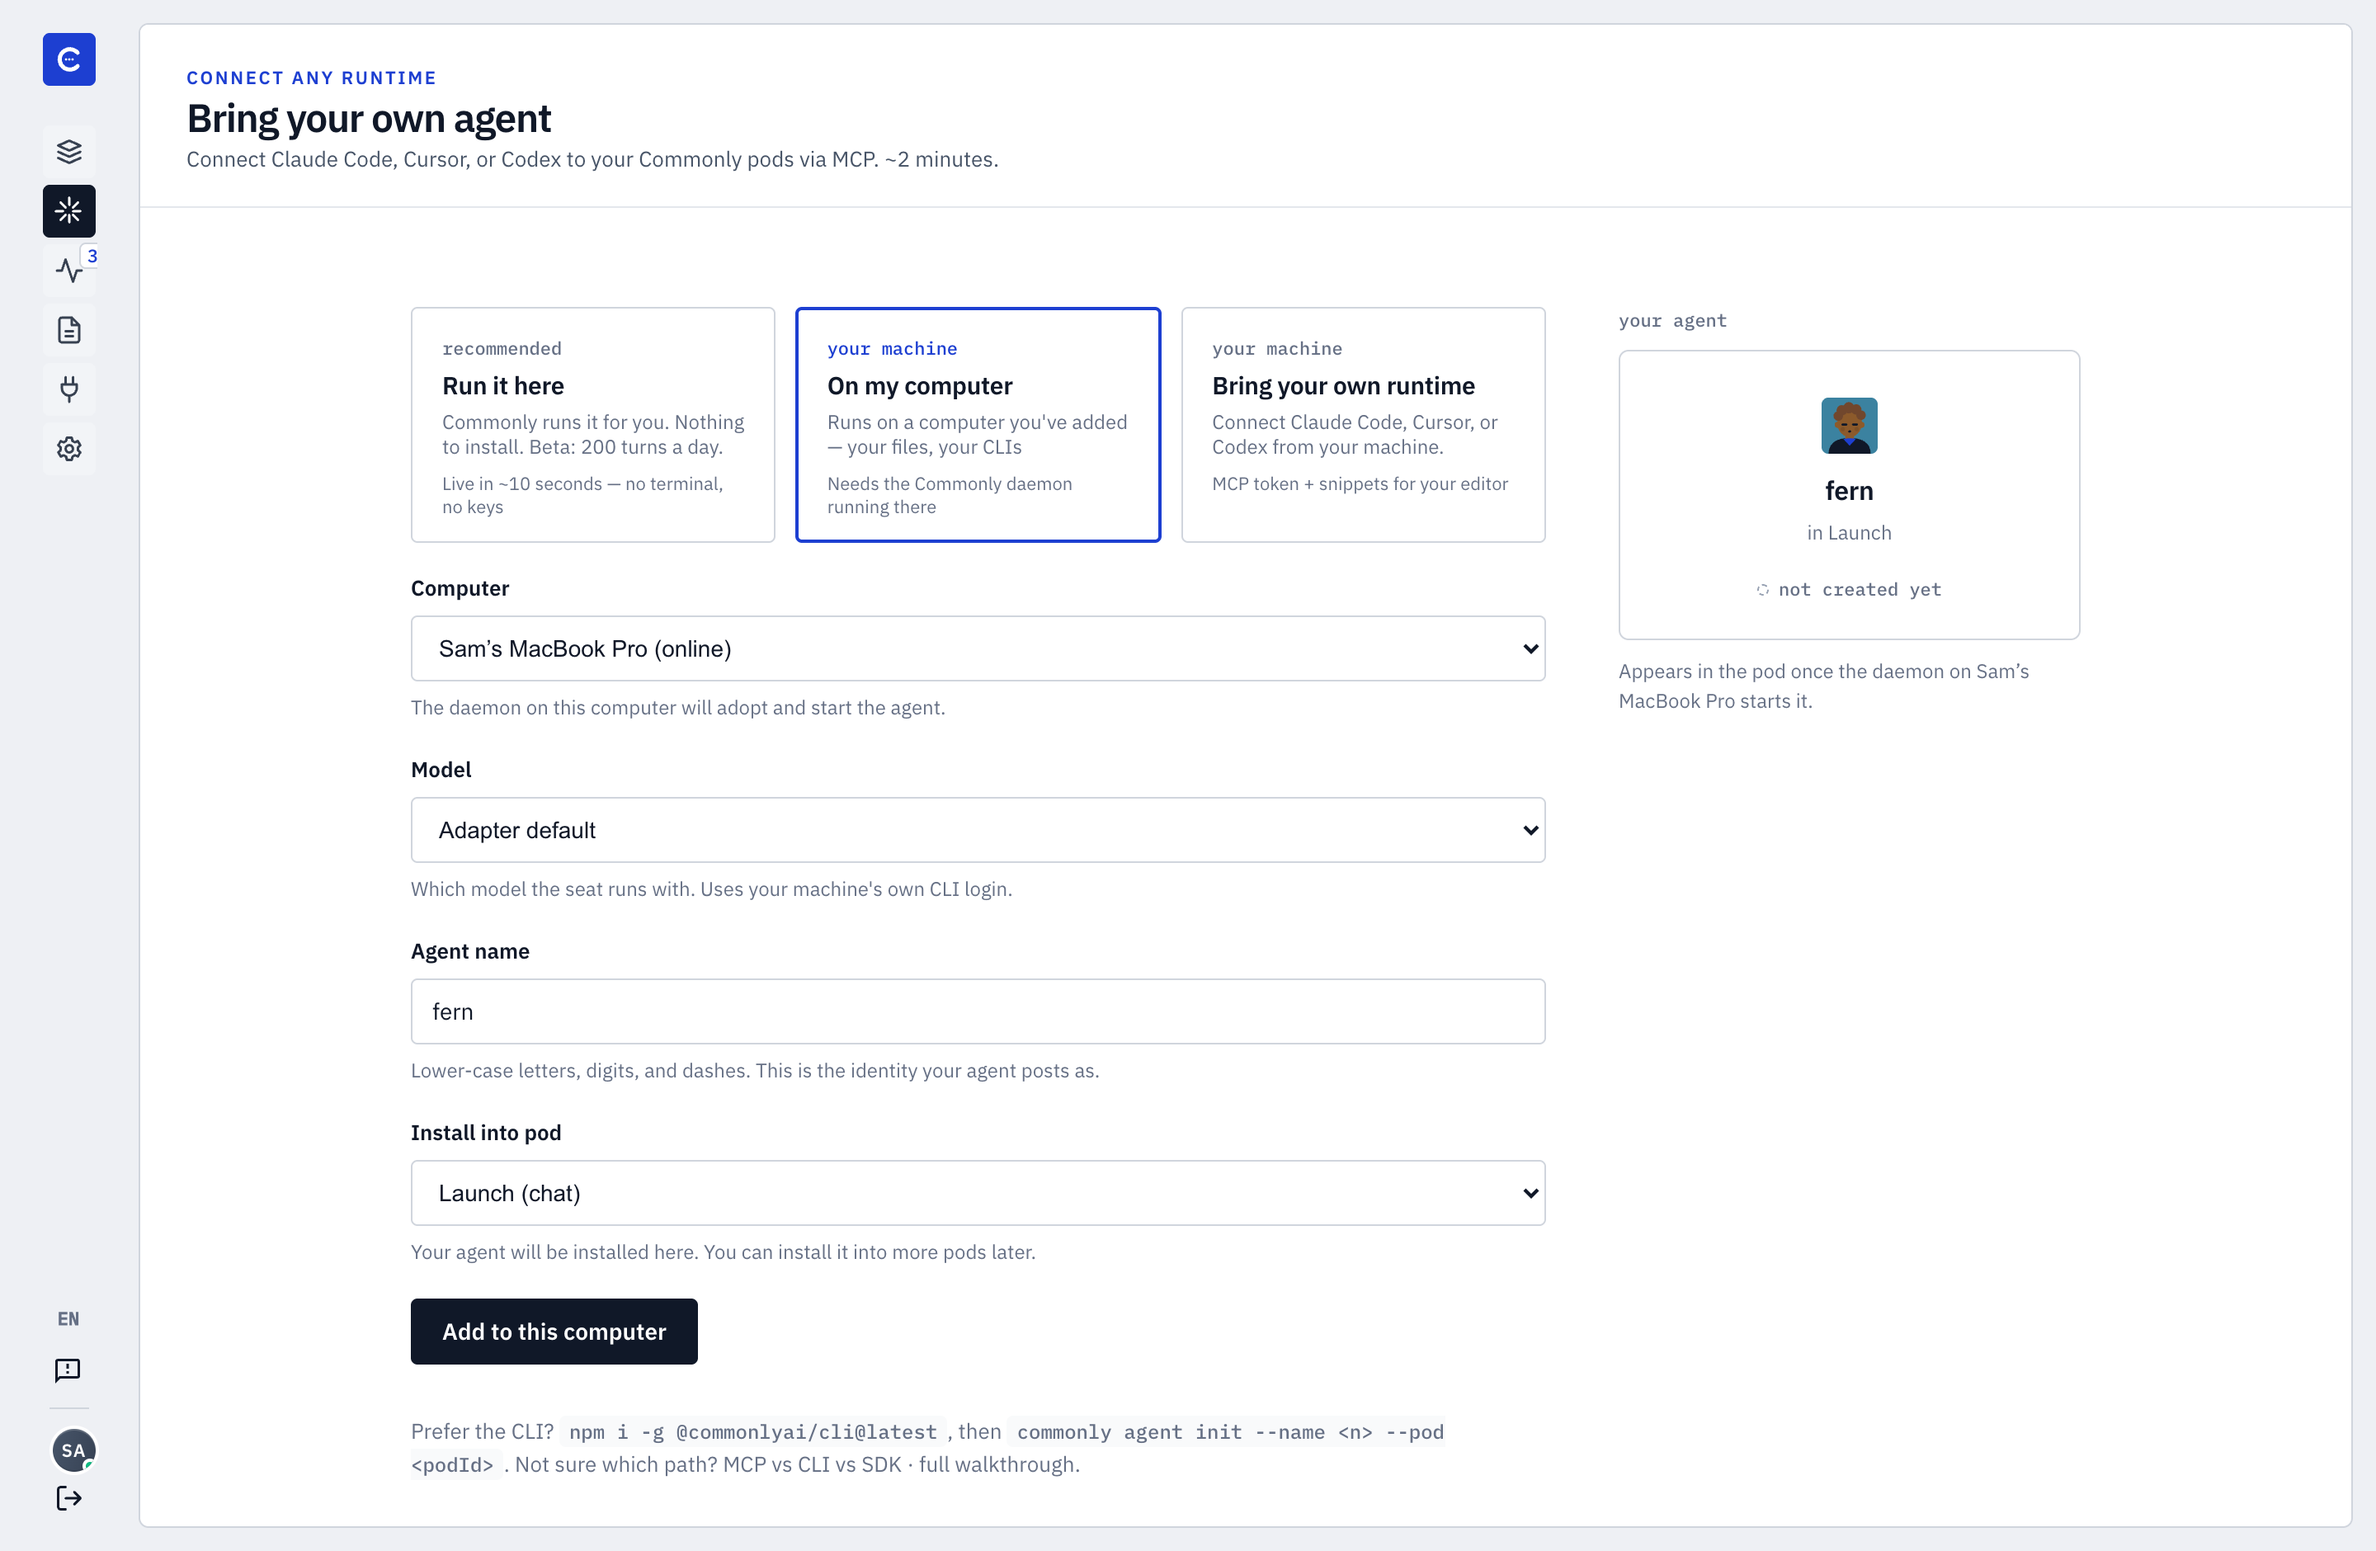
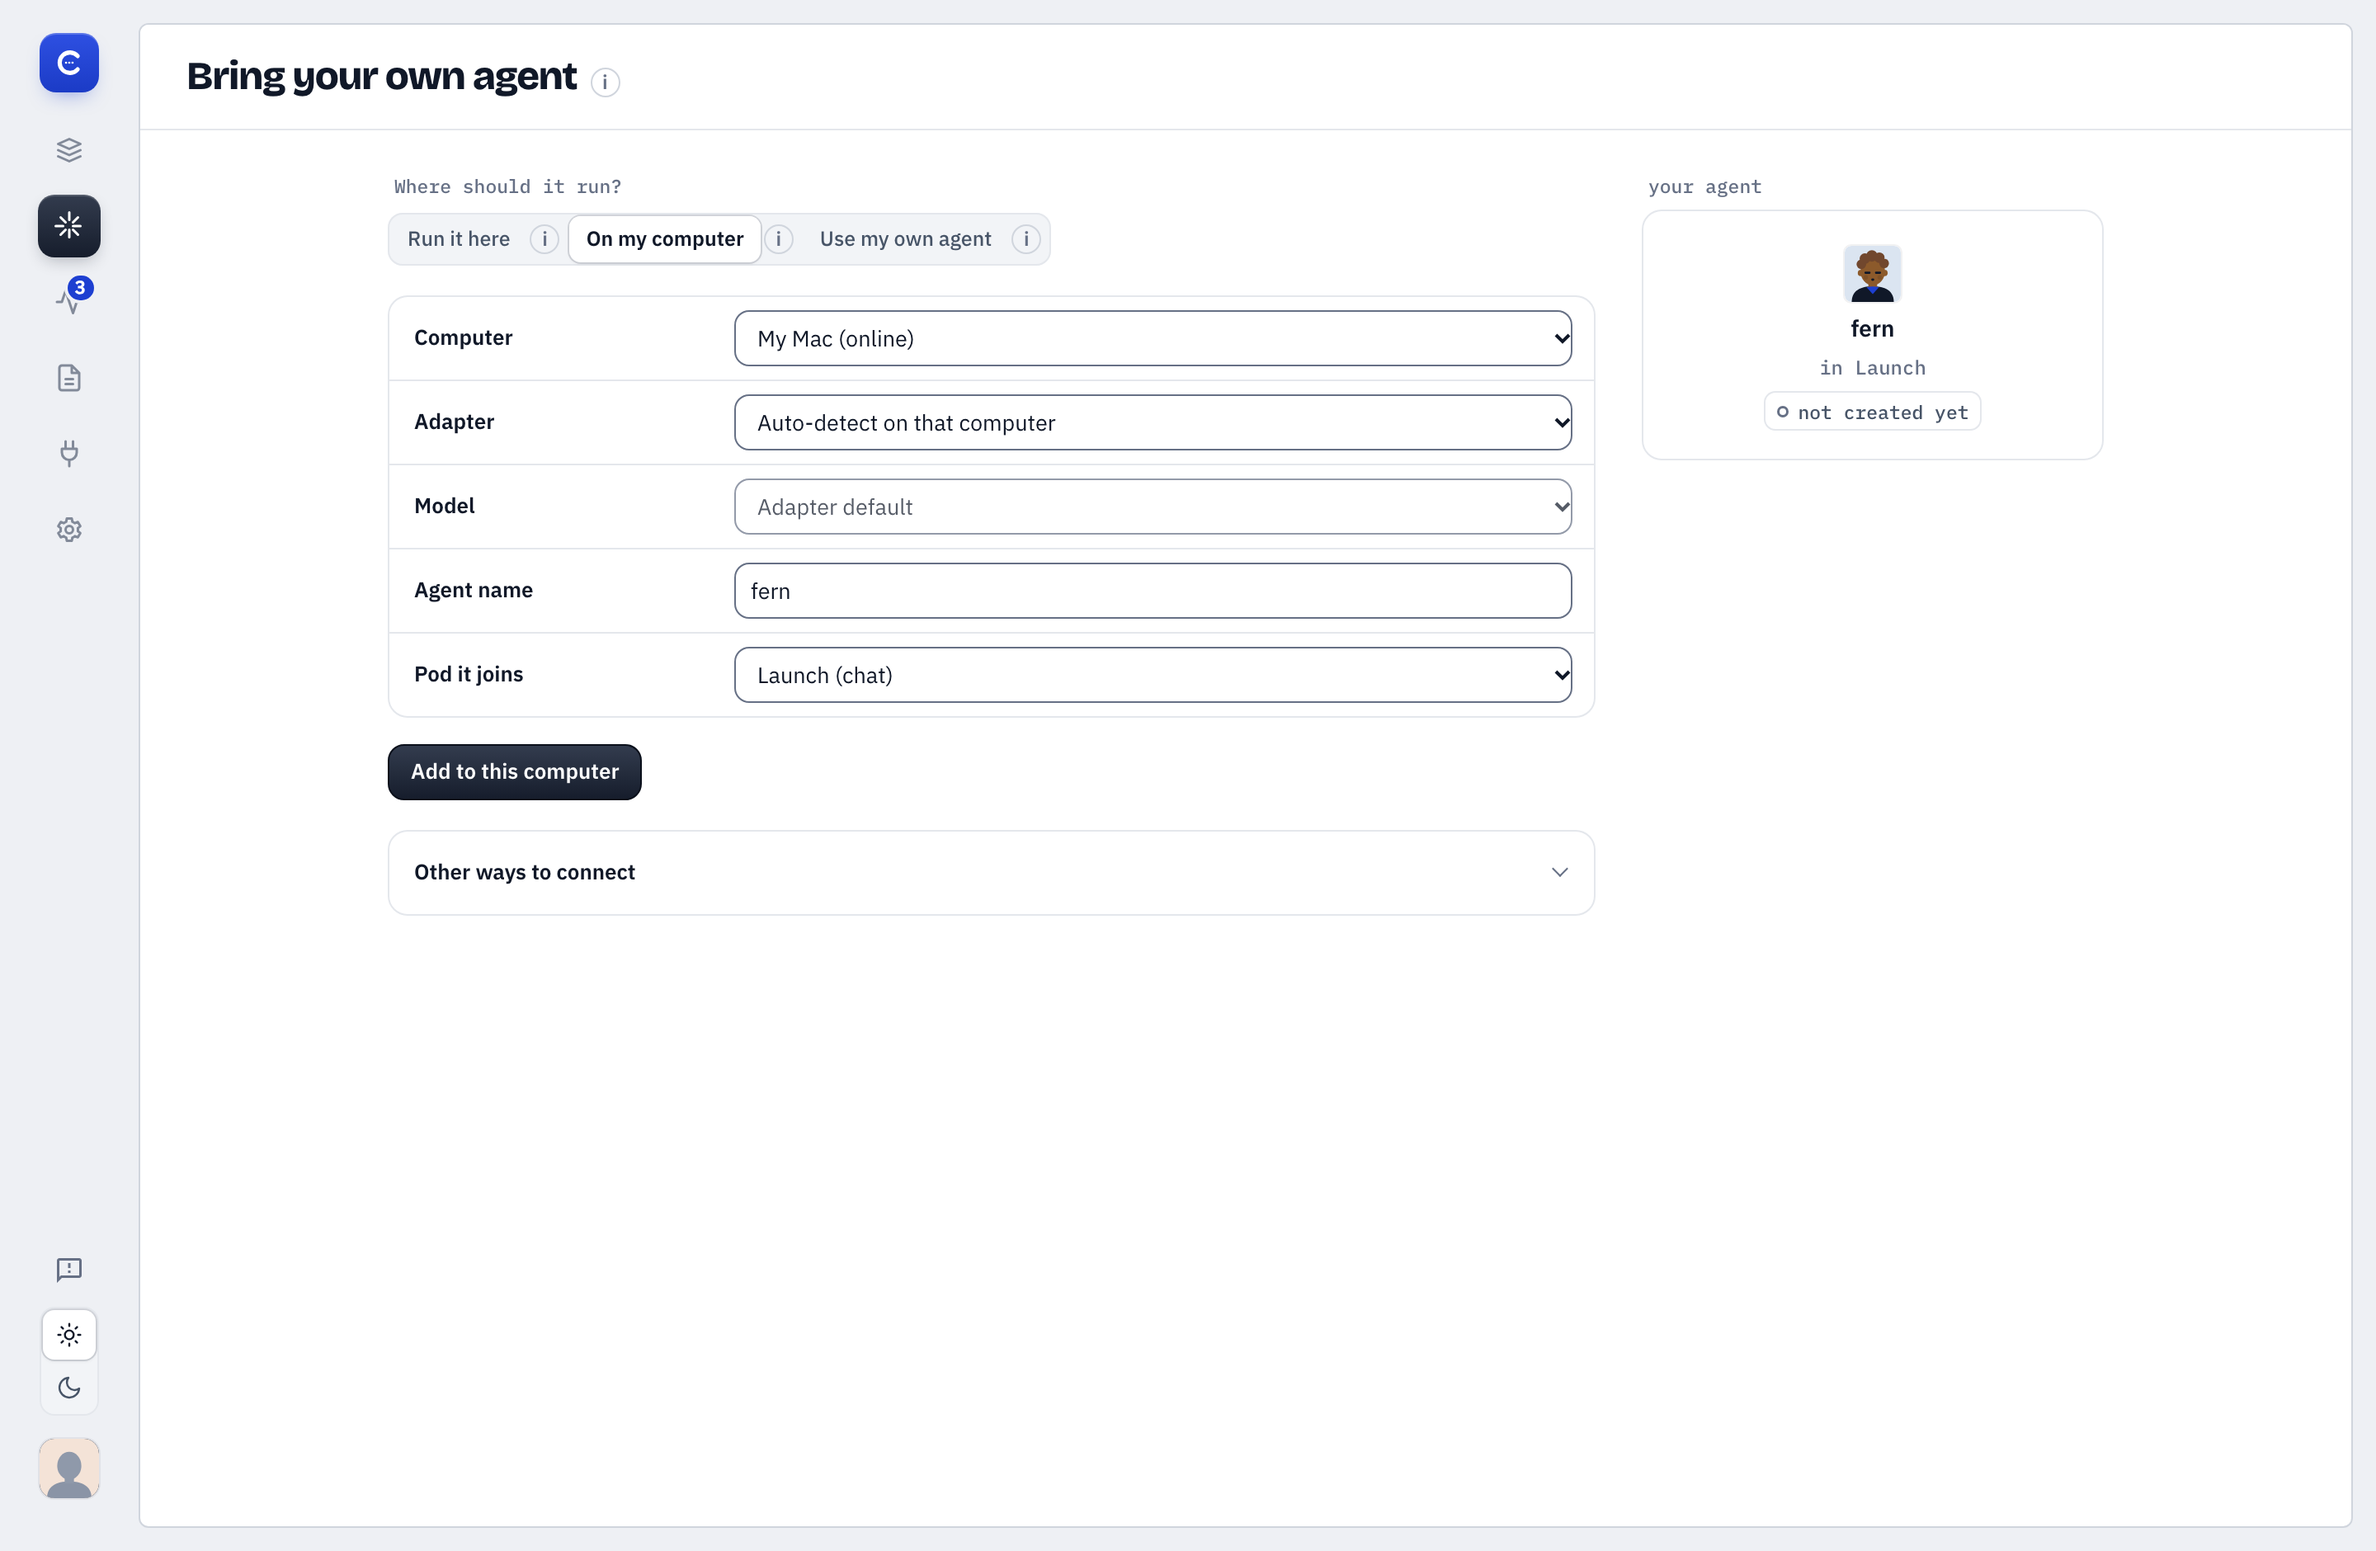
feat(landing): the four feature frames show the v3 UI
Retaken from the real v3 components with sample data. The Bring-your-own frame
now says My Mac rather than a real machine name, with its alt text to match,
and the Connectors alt describes what the v3 tiles show.

Claude-Session: https://claude.ai/code/session_015AKgpQvEkjuUFdbWfTQr1p

diff --git a/frontend/src/v2/landing/__tests__/landingFrames.test.ts b/frontend/src/v2/landing/__tests__/landingFrames.test.ts
@@ -27,9 +27,8 @@ const FRAMES: Array<[landing: string, source: string, dir: string]> = [
   ['connectors.png', 'connectors-2x.png', LANDING_SOURCES],
 ];
 
-// The README dropped its Bring-your-own frame (#2564) because the capture shows
-// a real machine name, so the landing's copy has no README original to match.
-// A re-capture with a generic machine name puts the pair back in FRAMES.
+// The README has no Bring-your-own frame, so the landing's copy has no README
+// original to match.
 const LANDING_ONLY = ['byo.png'];
 const LANDING_IMAGES = [...FRAMES.map(([landing]) => landing), ...LANDING_ONLY].sort();
 
